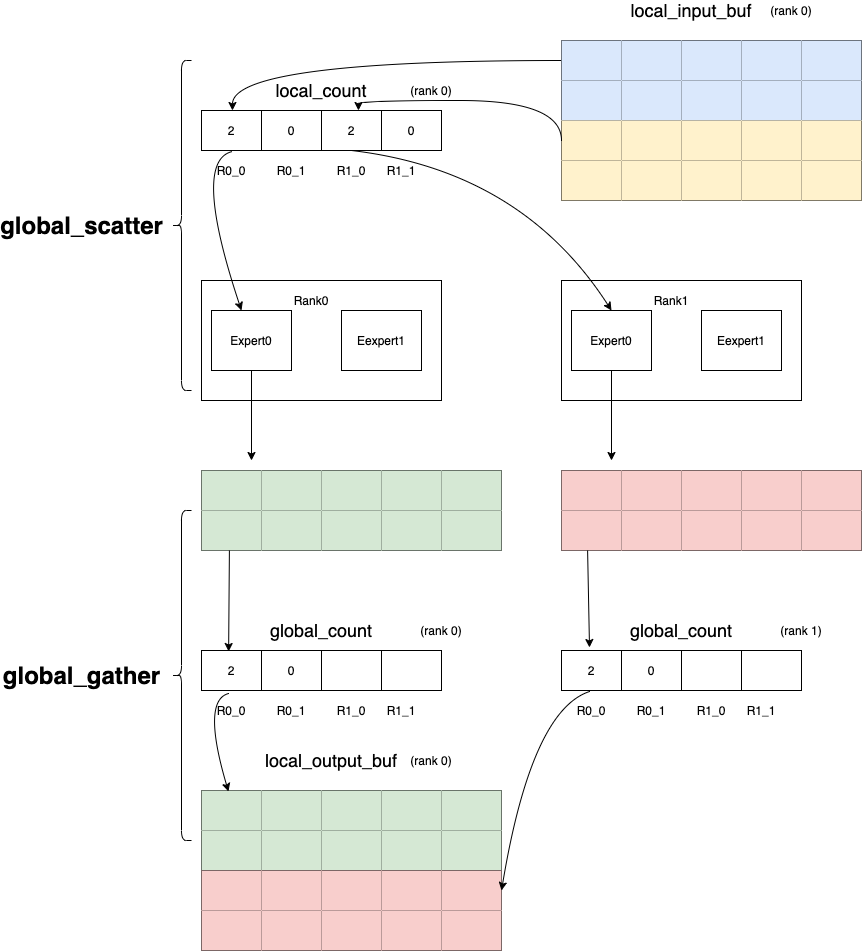
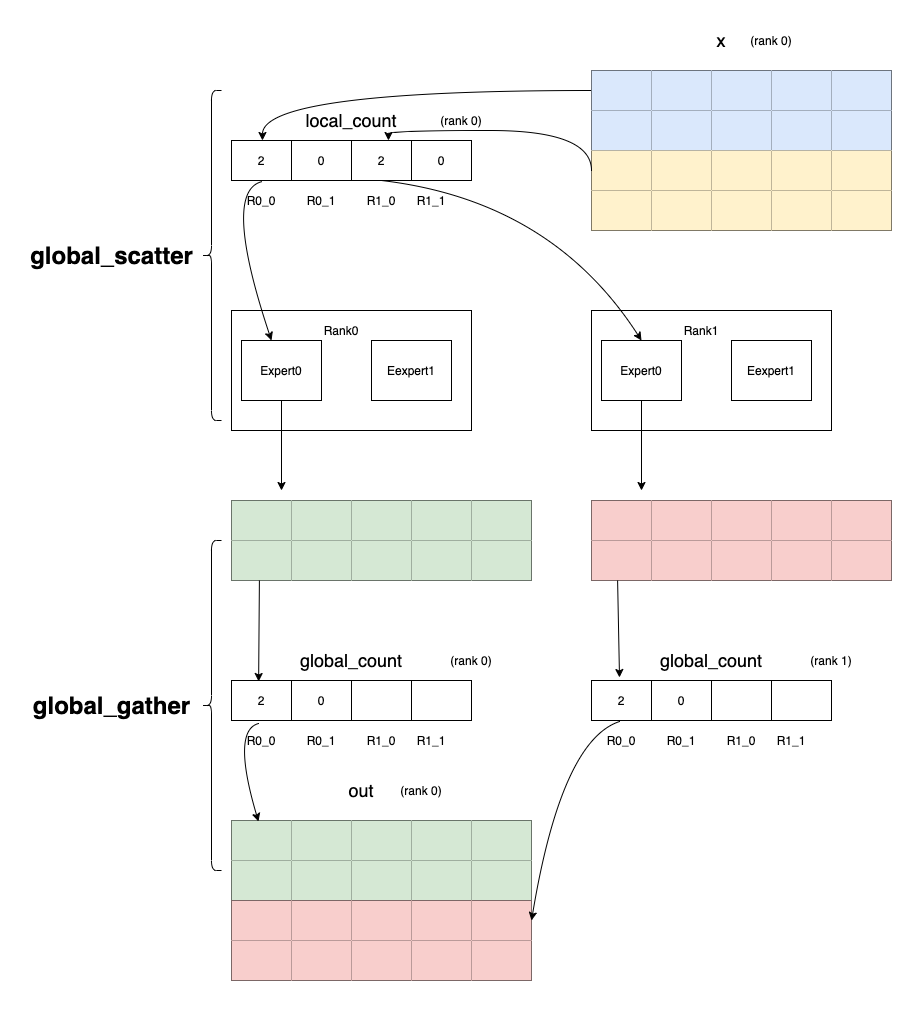
complement global_gather and global_scatter docs

diff --git a/docs/api/paddle/distributed/utils/global_scatter_cn.rst b/docs/api/paddle/distributed/utils/global_scatter_cn.rst
@@ -6,8 +6,31 @@ global_scatter
 
 .. py:function:: paddle.distributed.utils.global_scatter(x, local_count, global_count, group=None, use_calc_stream=True)
 
-根据local_count将x的数据分发到n_expert * world_size个expert，然后根据global_count接收数据，如下图所示。
+global_scatter根据local_count将x的数据分发到n_expert * world_size个expert，然后根据global_count接收数据。
 其中expert是用户定义的专家网络，n_expert是指每张卡拥有的专家网络数目，world_size是指运行网络的显卡数目。
+
+如下图所示，world_size是2，n_expert是2，x的batch_size是4，local_count是[2, 0, 2, 0]，0卡的global_count是[2, 0, , ], 
+1卡的global_count是[2, 0, ,](因为篇幅问题，这里只展示在0卡运算的数据)，在global_scatter算子里，
+local_count[i]代表向第 (i // n_expert)张卡的第 (i % n_expert)个expert发送local_expert[i]个数据，
+global_count[i]代表从第 (i // n_expert)张卡接收global_count[i]个数据给本卡的 第(i % n_expert)个expert。
+global_scatter发送数据的流程如下：
+
+local_count[0]代表从x里取出2个batch的数据向第0张卡的第0个expert发送2个数据；
+
+local_count[1]代表从x里取出0个batch的数据向第0张卡的第1个expert发送0个数据；
+
+local_count[2]代表从x里取出2个batch的数据向第1张卡的第0个expert发送2个数据；
+
+local_count[3]代表从x里取出0个batch的数据向第1张卡的第1个expert发送0个数据；
+
+所以第0张卡的global_count[0]等于2，代表从第0张卡接收2个batch的数据给第0个expert；
+
+第0张卡的global_count[1]等于0，代表从第0张卡接收0个batch的数据给第1个expert；
+
+第1张卡的global_count[0]等于2，代表从第0张卡接收2个batch的数据给第0个expert；
+
+第1张卡的global_count[1]等与0，代表从第0张卡接收0个batch的数据给第1个expert。
+
 
 .. image:: ../img/global_scatter_gather.png
   :width: 800

diff --git a/docs/api/paddle/distributed/utils/global_gather_cn.rst b/docs/api/paddle/distributed/utils/global_gather_cn.rst
@@ -6,8 +6,32 @@ global_gather
 
 .. py:function:: paddle.distributed.utils.global_gather(x, local_count, global_count, group=None, use_calc_stream=True)
 
-根据global_count将x的数据收集到n_expert * world_size个expert，然后根据local_count接收数据，具体的可以参照global_scatter的文档。
+global_gather根据global_count将x的数据收集到n_expert * world_size个expert，然后根据local_count接收数据。
 其中expert是用户定义的专家网络，n_expert是指每张卡拥有的专家网络数目，world_size是指运行网络的显卡数目。
+
+如下图所示，world_size是2，n_expert是2，x的batch_size是4，local_count是[2, 0, 2, 0]，0卡的global_count是[2, 0, , ], 
+1卡的global_count是[2, 0, ,](因为篇幅问题，这里只展示在0卡运算的数据)，在global_gather算子里，
+global_count和local_count的意义与其在global_scatter里正好相反，
+global_count[i]代表向第 (i // n_expert)张卡的第 (i % n_expert)个expert发送local_expert[i]个数据，
+local_count[i]代表从第 (i // n_expert)张卡接收global_count[i]个数据给本卡的 第(i % n_expert)个expert。
+发送的数据会按照每张卡的每个expert排列。
+
+global_gather发送数据的流程如下：
+
+第0张卡的global_count[0]代表向第0张卡的第0个expert发送2个数据；
+
+第0张卡的global_count[1]代表向第0张卡的第1个expert发送0个数据；
+
+第1张卡的global_count[0]代表向第0张卡的第0个expert发送2个数据；
+
+第1张卡的global_count[1]代表向第0张卡的第1个expert发送0个数据。
+
+
+.. image:: ../img/global_scatter_gather.png
+  :width: 800
+  :alt: global_scatter_gather
+  :align: center
+
 
 
 参数

diff --git a/docs/api/paddle/distributed/fleet/utils/recompute_cn.rst b/docs/api/paddle/distributed/fleet/utils/recompute_cn.rst
@@ -10,12 +10,14 @@ recompute
 
 参数
 :::::::::
-    - function - 模型前向传播的部分连续的层函数组成的序列，它们的中间激活函数值将在前向传播过程中被释放掉来节省显存，
-                 并且在反向梯度计算的时候会重新被计算。
-    - args (Tensor) - function的输入
-    - kwargs (int，可选) - kwargs只应该包含preserve_rng_state的键值对，用来表示是否保存前向的rng，如果为True，
-                          那么在反向传播的重计算前向时会还原上次前向的rng值。默认preserve_rng_state为True。
+    - function (paddle.nn.Sequential) - 模型前向传播的部分连续的层函数组成的序列，它们的中间激活函数值将在前向传播过程中被释放掉来节省显存，并且在反向梯度计算的时候会重新被计算。
+    - args (Tensor) - function的输入。
+    - kwargs (Dict) - kwargs只应该包含preserve_rng_state的键值对，用来表示是否保存前向的rng，如果为True，那么在反向传播的重计算前向时会还原上次前向的rng值。默认preserve_rng_state为True。
 
 返回
 :::::::::
 function作用在输入的输出
+
+代码示例
+:::::::::
+COPY-FROM: paddle.distributed.fleet.utils.recompute
